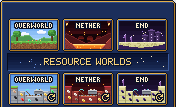
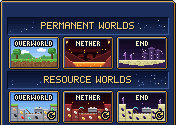
feat(menus): permanent worlds header on rtp_worlds

diff --git a/menus/build.py b/menus/build.py
@@ -893,9 +893,10 @@ def selftest():
         assert list(ymenu('gui_menus')['gui_menus']) == ['menu', 'rtp_confirm', 'warps', 'spawn_cmd', 'rules_cmd',
                                                          'discord_cmd', 'help_cmd']
         worlds = _load(os.path.join(mod, 'rtp_worlds.json'))
-        assert worlds['rows'] == 5 and worlds['slots']['resource'] == [27, 28, 29, 36, 37, 38]
+        assert worlds['rows'] == 6 and worlds['slots']['resource'] == [36, 37, 38, 45, 46, 47]
         assert list(worlds['slots']) == ['overworld', 'nether', 'end', 'resource', 'resource_nether', 'resource_end']
-        assert not any(s in v for v in worlds['slots'].values() for s in range(18, 27))  # the header row
+        headers = [*range(0, 9), *range(27, 36)]  # the two header rows carry no item
+        assert not any(s in v for v in worlds['slots'].values() for s in headers)
         assert ymenu('menu')['items']['rtp']['click_commands'] == ['[close]', '[player] rtp']
         mod_ids = [m['id'] for m in real['menus'] if m.get('renderer') == 'mod']
         assert not any(os.path.exists(os.path.join(dm, i + '.yml')) for i in mod_ids)
